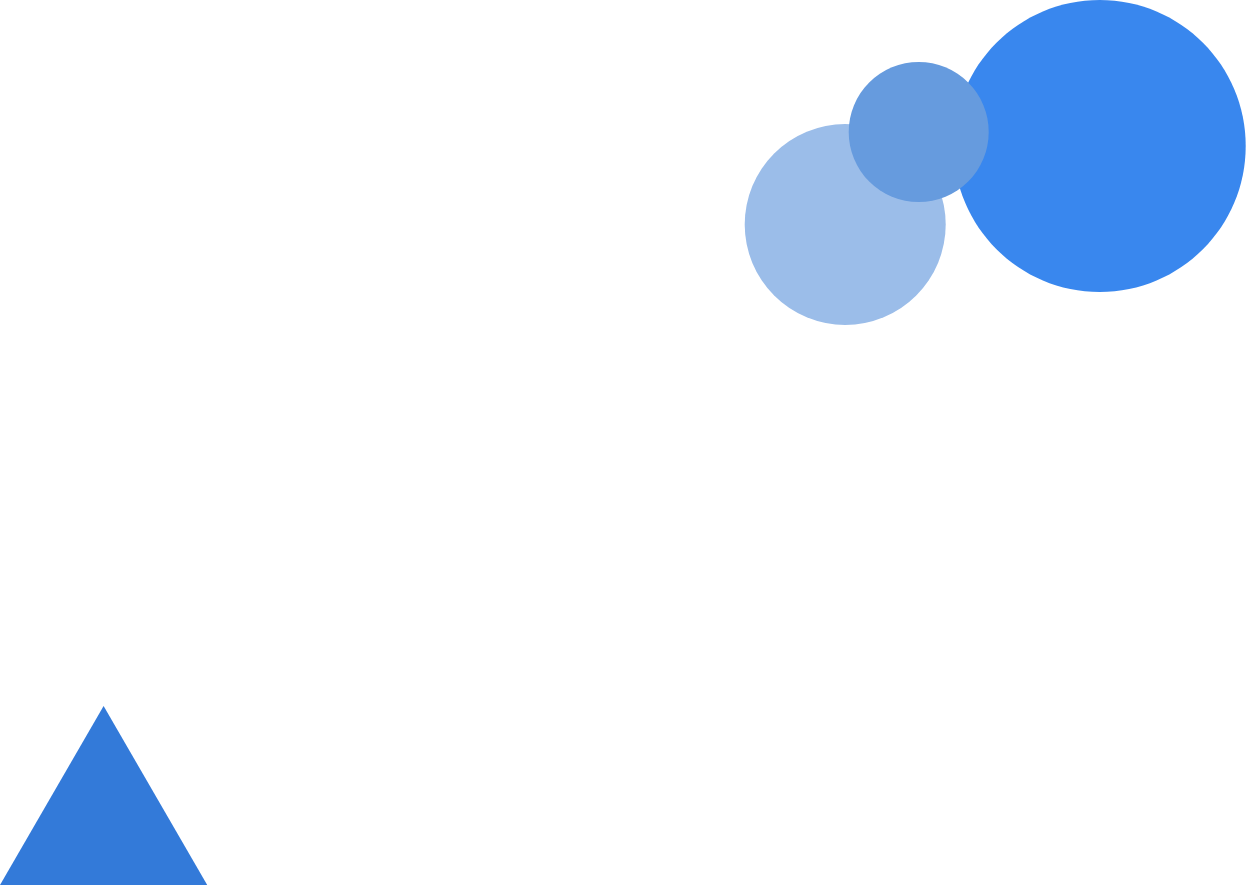
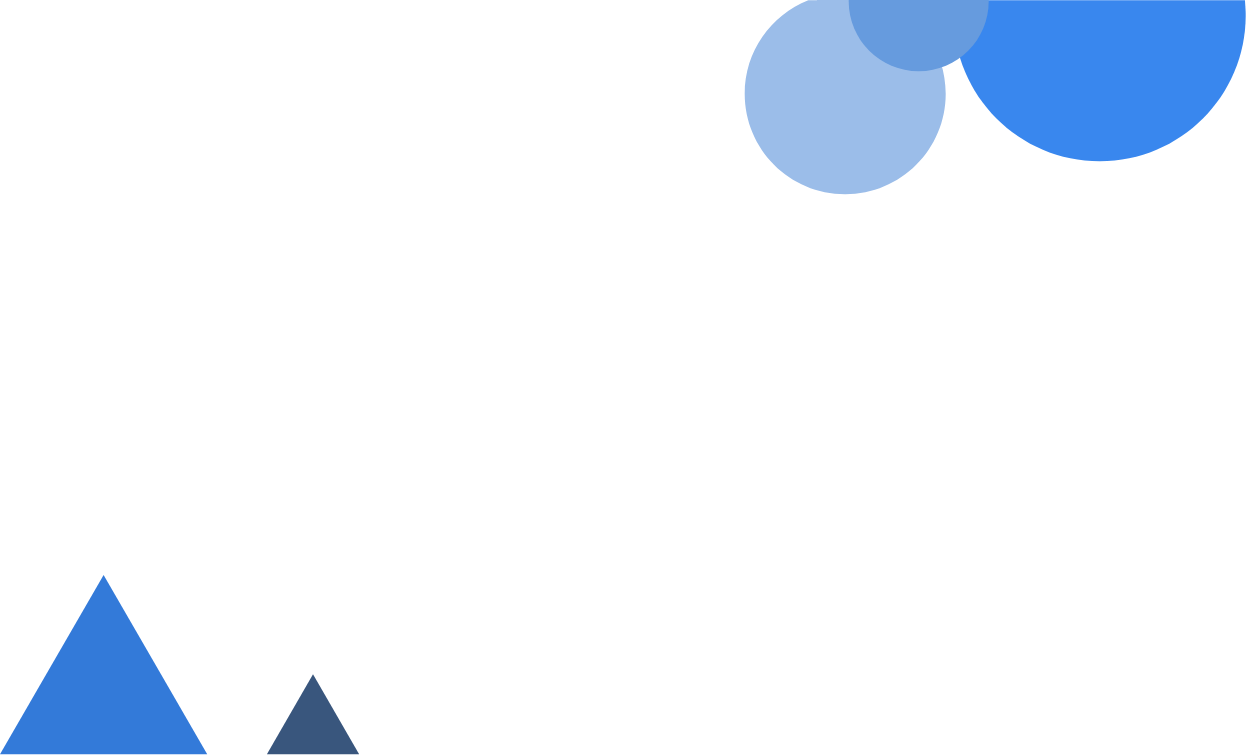
[FEAT]<component/~/Main.js>

diff --git a/src/component/Main/style.js b/src/component/Main/style.js
@@ -1,7 +1,35 @@
 import styled from 'styled-components'  
 
+export const Main = styled.div`
+  display: flex;
+`
+
 export const Container = styled.div`
-  width: 100%;
+  position: relative;
+  width: 97.5rem;
   height :100vh;
   background: #F8FBFF;
+`
+
+export const Inner = styled.div`
+  position: relative;
+  height: 70%;
+  background: #F8FBFF;
+`
+
+export const BackgroundImg = styled.div`
+  width: 100%;
+  height: 100%;
+  background: #f8fbff url(${(props) => props.img}) no-repeat 50% 80%;
+`;
+
+export const Glass = styled.div`
+  position: absolute;
+  width: 94rem;
+  height: 40rem;
+  background: #AEB9D4;
+  opacity: 0.12;
+  top:0;
+  margin: 32px 26px;
+  border-radius: 12px;
 `

diff --git a/src/component/Main/Main.js b/src/component/Main/Main.js
@@ -1,12 +1,21 @@
 import React from 'react';
 import * as S from './style';
+import { mainBackground } from '../../assets/main';
 import Header from "../Header/Header";
+import Footer from "./Footer/Footer";
 
 const Main = () => {
   return (
-    <S.Container>
+    <S.Main>
       <Header />
-    </S.Container>
+      <S.Container>
+          <S.Inner>
+            <S.BackgroundImg img={mainBackground}></S.BackgroundImg>
+            <S.Glass></S.Glass>
+          </S.Inner>
+          <Footer />
+      </S.Container>
+    </S.Main>
   );
 };
 

diff --git a/src/component/Main/Footer/Footer.js b/src/component/Main/Footer/Footer.js
@@ -1,0 +1,12 @@
+import React from 'react';
+import * as S from './style';
+
+const Footer = () => {
+  return (
+    <S.Container>
+      footer
+    </S.Container>
+  );
+};
+
+export default Footer;

diff --git a/src/component/Main/Footer/style.js b/src/component/Main/Footer/style.js
@@ -1,0 +1,7 @@
+import styled from 'styled-components';
+
+export const Container = styled.div`
+  width: 100%;
+  height: 30%;
+  background: #242834;
+`
